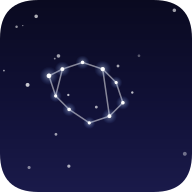
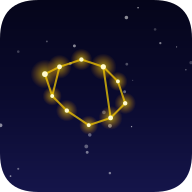
fix: 염소자리 이미지 노란색으로 변경, 글자 제거
- OG 이미지에서 한글 텍스트 제거 (폰트 깨짐 해결)
- 별자리 색상: 흰색 → 노란색으로 변경
- 별 빛 효과 노란색 glow 추가
- 파일명 og-image-v3.png로 변경

🤖 Generated with [Claude Code](https://claude.com/claude-code)

diff --git a/index.html b/index.html
@@ -10,14 +10,14 @@
     <meta property="og:type" content="website">
     <meta property="og:title" content="13살 시윤이의 겨울방학 이야기(2026)">
     <meta property="og:description" content="시윤이의 2026년 겨울방학 일정 관리 - 학습, 독서, 운동, 게임 기록">
-    <meta property="og:image" content="https://njungdal.github.io/vacation-manager/og-image-v2.png">
+    <meta property="og:image" content="https://njungdal.github.io/vacation-manager/og-image-v3.png">
     <meta property="og:url" content="https://njungdal.github.io/vacation-manager/">
 
     <!-- Twitter Card -->
     <meta name="twitter:card" content="summary_large_image">
     <meta name="twitter:title" content="13살 시윤이의 겨울방학 이야기(2026)">
     <meta name="twitter:description" content="시윤이의 2026년 겨울방학 일정 관리">
-    <meta name="twitter:image" content="https://njungdal.github.io/vacation-manager/og-image-v2.png">
+    <meta name="twitter:image" content="https://njungdal.github.io/vacation-manager/og-image-v3.png">
 
     <!-- Favicon & PWA -->
     <link rel="icon" type="image/png" href="icon-192.png">
